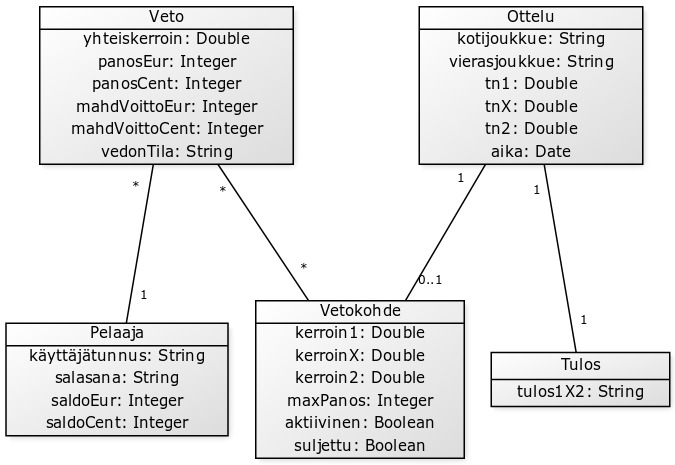
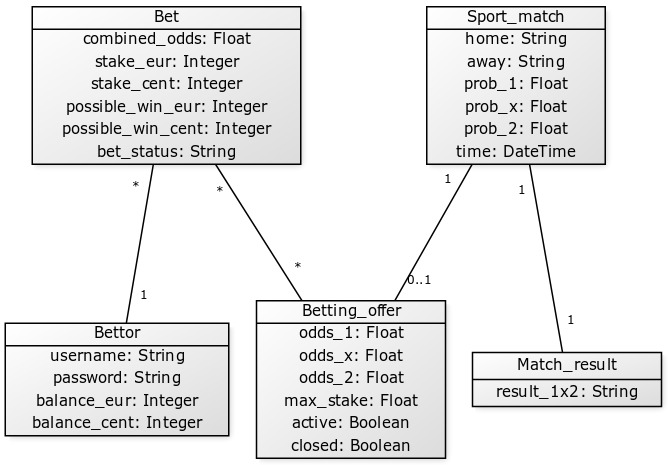
luotu luokkia

diff --git a/application/bets/models.py b/application/bets/models.py
@@ -1,0 +1,19 @@
+from application import db
+
+class Bet(db.Model):
+    id = db.Column(db.Integer, primary_key=True)
+    bettor_id = db.Column(db.Integer, db.ForeignKey('bettor.id'), nullable=False)
+    combined_odds = db.Column(db.Float, nullable=False)
+    stake_eur = db.Column(db.Integer, nullable=False)
+    stake_cent = db.Column(db.Integer, nullable=False)
+    possible_win_eur = db.Column(db.Integer, nullable=False)
+    possible_win_cent = db.Column(db.Integer, nullable=False)
+    bet_status = db.Column(db.String(10), nullable=False)
+
+    def __init__(self, combined_odds, stake_eur, stake_cent):
+        self.combined_odds = combined_odds
+        self.stake_eur = stake_eur
+        self.stake_cent = stake_cent
+        self.possible_win_eur = 0
+        self.possible_win_cent = 0
+        self.bet_status = "TBD"

diff --git a/application/matches/models.py b/application/matches/models.py
@@ -1,0 +1,21 @@
+from application import db
+
+class Sport_match(db.Model):
+    id = db.Column(db.Integer, primary_key=True)
+    home = db.Column(db.String(144), nullable=False)
+    away = db.Column(db.String(144), nullable=False)
+    prob_1 = db.Column(db.Float, nullable=False)
+    prob_x = db.Column(db.Float, nullable=False)
+    prob_2 = db.Column(db.Float, nullable=False)
+    time = db.Column(db.DateTime, nullable=False)
+
+    betoffer = db.relationship('Betting_offer', backref='sport_match', lazy=True)
+    result = db.relationship('Match_result', backref='sport_match', lazy=True)
+
+    def __init__(self, home, away, prob_1, prob_x, prob_2, time):
+        self.home = home
+        self.away = away
+        self.prob_1 = prob_1
+        self.prob_x = prob_x
+        self.prob_2 = prob_2
+        self.time = time

diff --git a/application/bettingoffers/models.py b/application/bettingoffers/models.py
@@ -1,0 +1,19 @@
+from application import db
+
+class Betting_offer(db.Model):
+    id = db.Column(db.Integer, primary_key=True)
+    match_id = db.Column(db.Integer, db.ForeignKey('sport_match.id'), nullable=False)
+    odds_1 = db.Column(db.Float, nullable=False)
+    odds_x = db.Column(db.Float, nullable=False)
+    odds_2 = db.Column(db.Float, nullable=False)
+    max_stake = db.Column(db.Float, nullable=False)
+    active = db.Column(db.Boolean, nullable=False)
+    closed = db.Column(db.Boolean, nullable=False)
+
+    def __init__(self, odds_1, odds_x, odds_2, max_stake, active, closed):
+        self.odds_1 = odds_1
+        self.odds_x = odds_x
+        self.odds_2 = odds_2
+        self.max_stake = max_stake
+        self.active = active
+        self.closed = closed

diff --git a/application/auth/models.py b/application/auth/models.py
@@ -1,0 +1,19 @@
+from application import db
+
+class Bettor(db.Model):
+    id = db.Column(db.Integer, primary_key=True)
+    username = db.Column(db.String(144), nullable=False)
+    password = db.Column(db.String(144), nullable=False)
+    balance_eur = db.Column(db.Integer, nullable=False)
+    balance_cent = db.Column(db.Integer, nullable=False)
+
+    bets = db.relationship('Bet', backref='bettor', lazy=True)
+
+    def __init__(self, username, password):
+        self.username = username
+        self.password = password
+        self.balance_eur = 0
+        self.balance_cent = 0
+
+    def get_id(self):
+        return self.id

diff --git a/application/bettingoffers_of_bet/models.py b/application/bettingoffers_of_bet/models.py
@@ -1,0 +1,14 @@
+from application import db
+
+class Betting_offer_of_bet(db.Model):
+    id = db.Column(db.Integer, primary_key=True)
+    betting_offer_id = db.Column(db.Integer, db.ForeignKey('betting_offer.id'), nullable=False)
+    bet_id = db.Column(db.Integer, db.ForeignKey('bet.id'), nullable=False)
+    choice_1x2 = db.Column(db.String(1), nullable=False)
+    odds = db.Column(db.Float, nullable=False)
+    status = db.Column(db.String(10), nullable=False)
+
+    def __init__(self, choice_1x2, odds):
+        self.choice_1x2 = choice_1x2
+        self.odds = odds
+        self.status = "TBD"

diff --git a/application/results/models.py b/application/results/models.py
@@ -1,0 +1,9 @@
+from application import db
+
+class Match_result(db.Model):
+    id = db.Column(db.Integer, primary_key=True)
+    match_id = db.Column(db.Integer, db.ForeignKey('sport_match.id'), nullable=False)
+    result_1x2 = db.Column(db.String(1), nullable=False)
+
+    def __init__(self, result_1x2):
+        self.result_1x2 = result_1x2

diff --git a/application/__init__.py b/application/__init__.py
@@ -8,4 +8,11 @@ db = SQLAlchemy(app)
 
 from application import views
 
+from application.matches import models
+from application.bettingoffers import models
+from application.results import models
+from application.bets import models
+from application.bettingoffers_of_bet import models
+from application.auth import models
+
 db.create_all()
